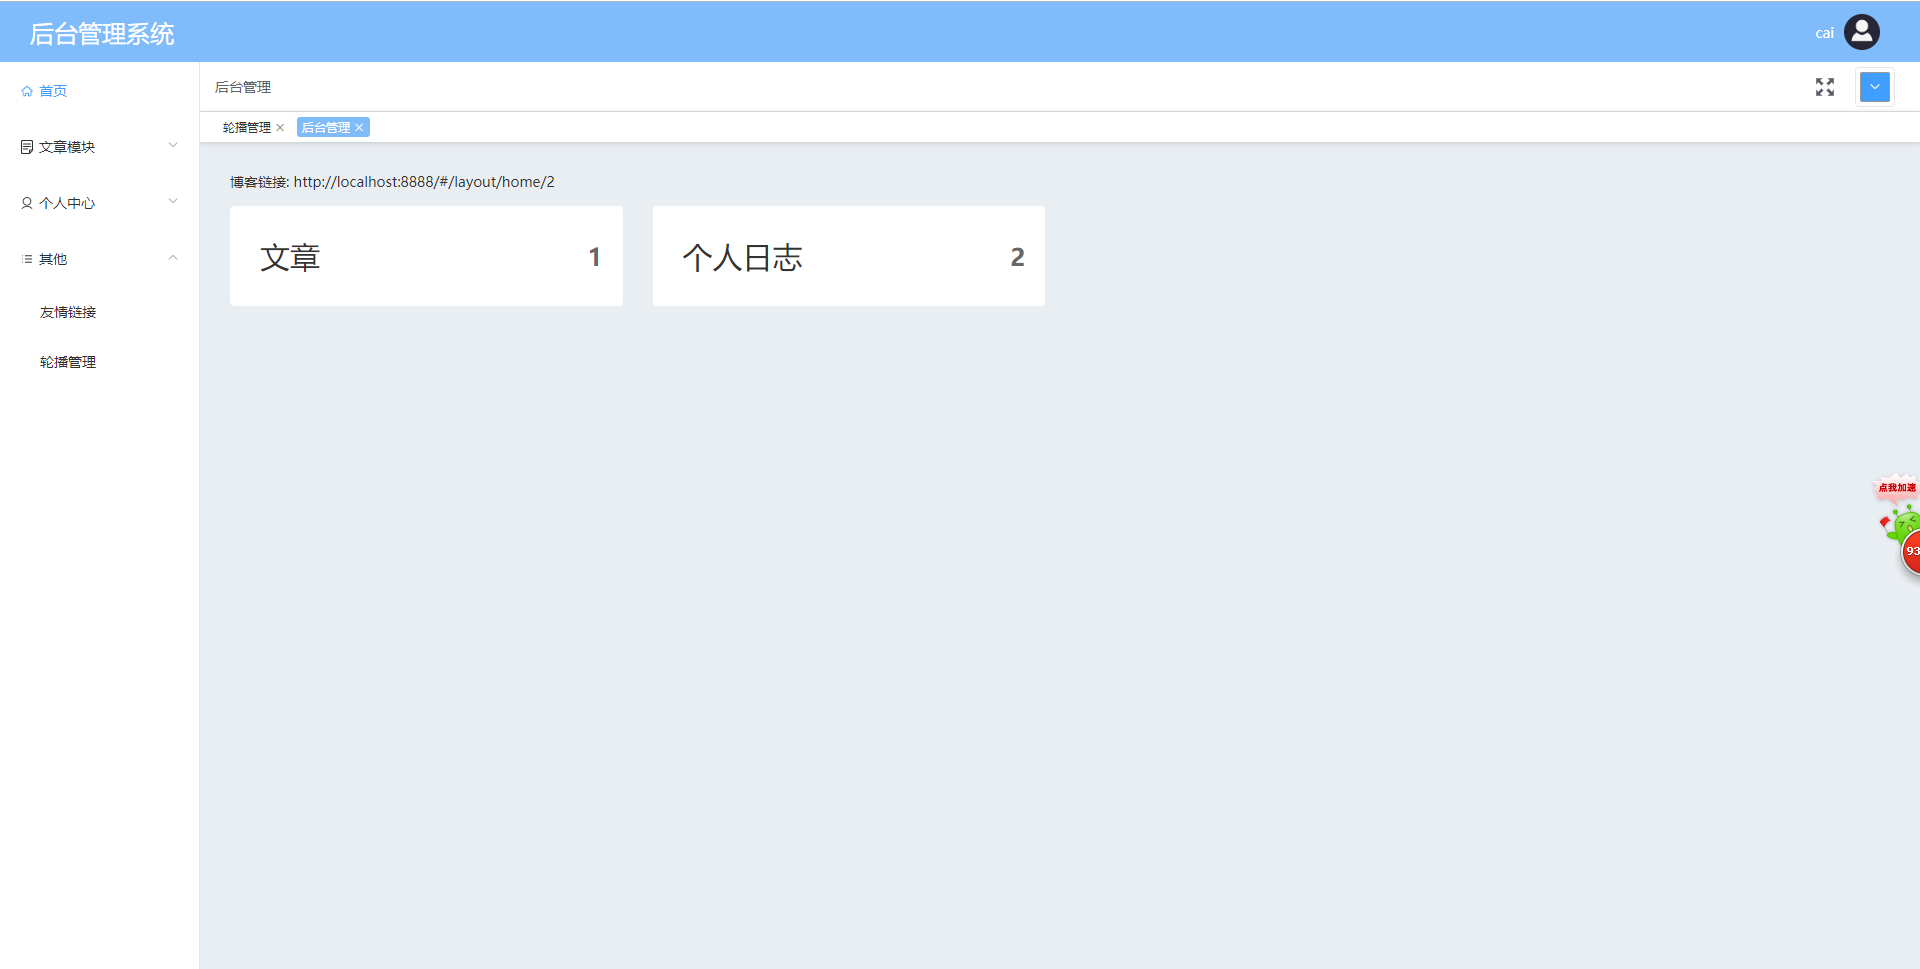
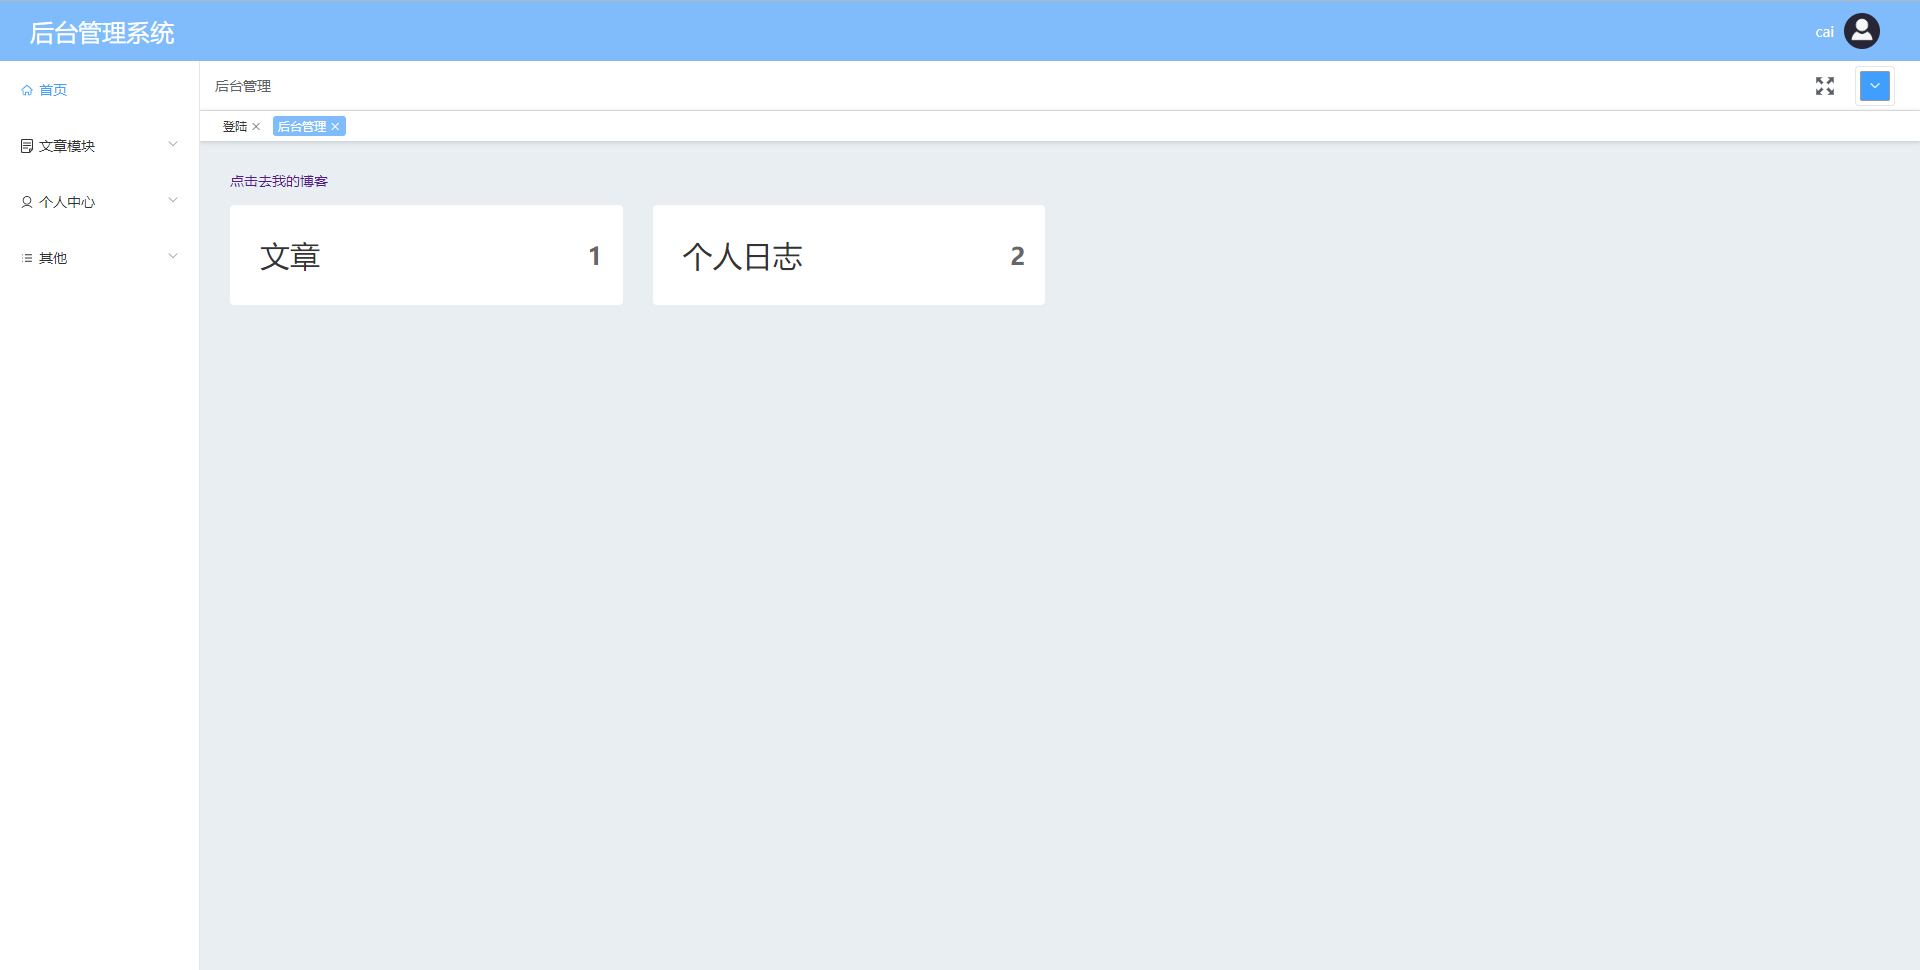
2020-01-07

diff --git a/src/views/admin/home/index.vue b/src/views/admin/home/index.vue
@@ -1,6 +1,8 @@
 <template>
   <div class="home" v-if="homeData">
-    <p v-if="isAdmin !== 'true'" class="link">博客链接: http://{{host}}/#/layout/home/{{this.$store.state.userInfo.id}}</p>
+    <p v-if="isAdmin !== 'true'" class="link">
+      <router-link :to="`/layout/home/${this.$store.state.userInfo.id}`">点击去我的博客</router-link>
+    </p>
     <div class="top">
       <div class="item" v-if="isAdmin === 'true'">
         <div class="content">
